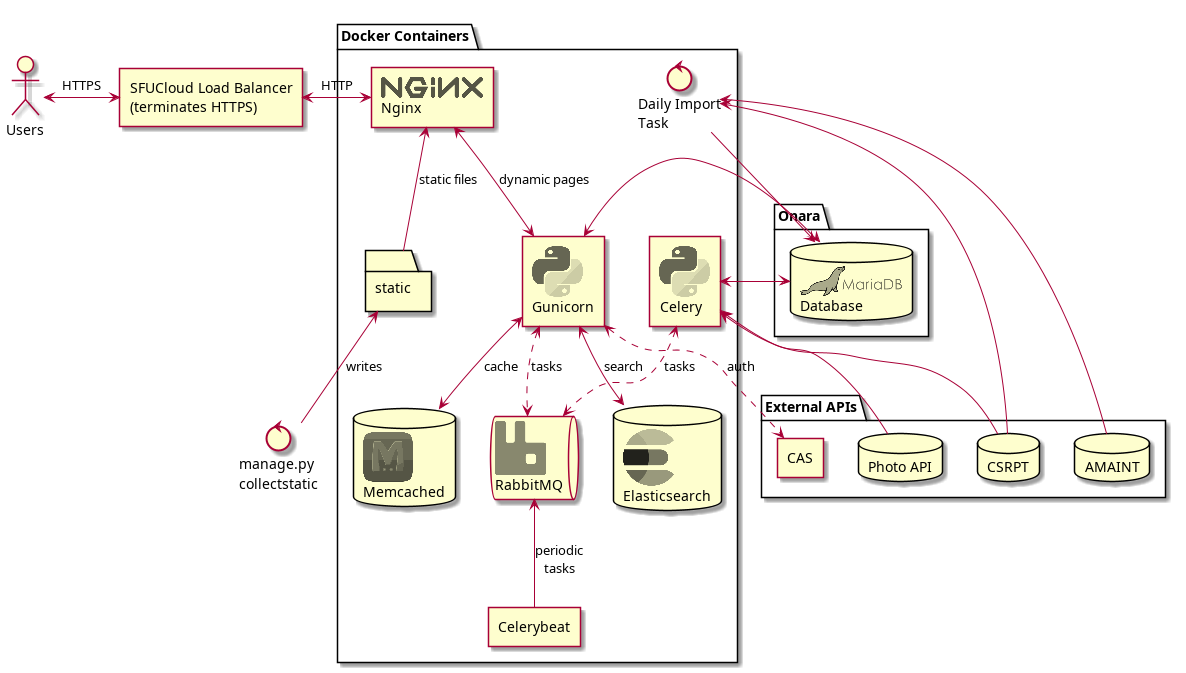
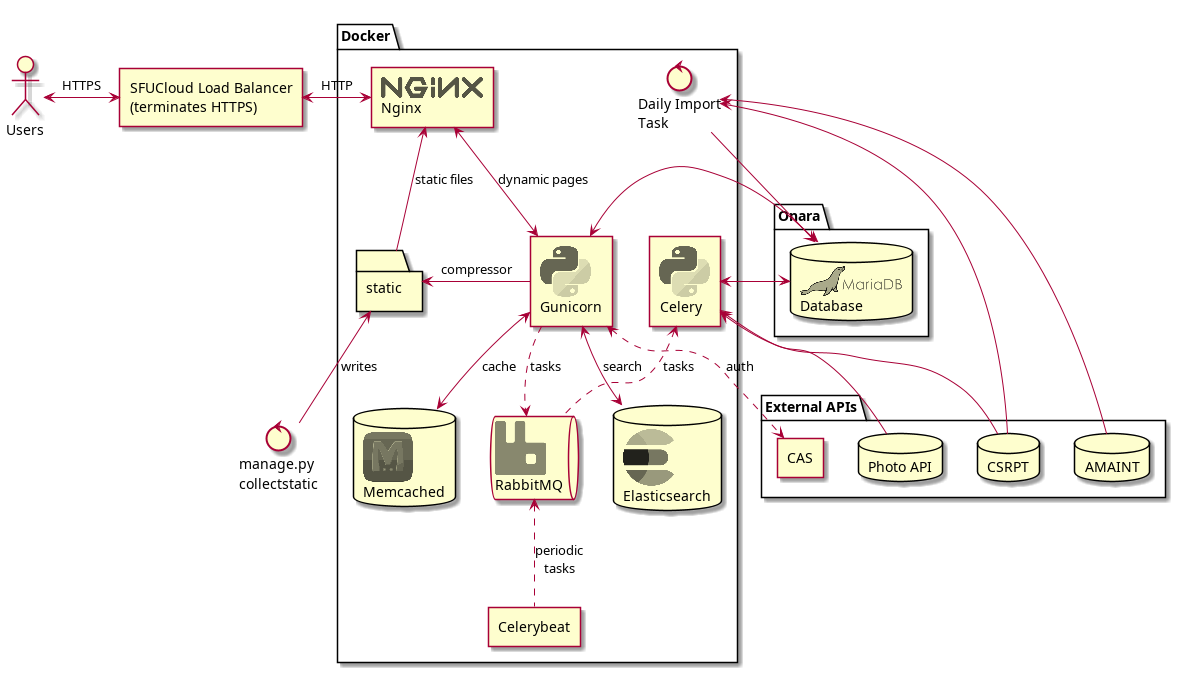
management helper image

diff --git a/DOCKER-TODO.md b/DOCKER-TODO.md
@@ -3,7 +3,8 @@
 * kinit auth piped in somehow
 * log files. Proposal:
     * nginx https://alexanderzeitler.com/articles/rotating-nginx-logs-with-docker-compose/
-    * everything else to syslog
+    * everything else to syslog?
+    * or limit log sizes in daemon.json as described: https://signoz.io/blog/docker-log-rotation/
 * maintenance mode/503 handling
 * logrotate
 * MOSS
@@ -26,10 +27,10 @@ DOCKERROLLOUT="docker rollout -f docker-compose-demo.yml"
 ${DOCKERCOMPOSE} pull
 ${DOCKERCOMPOSE} build
 ${DOCKERCOMPOSE} up -d mysql elasticsearch rabbitmq memcached
-${DOCKERCOMPOSE} run app ./manage.py migrate
-${DOCKERCOMPOSE} run app ./manage.py collectstatic --no-input
-${DOCKERCOMPOSE} run app ./manage.py loaddata fixtures/*
-${DOCKERCOMPOSE} run app ./manage.py update_index
+${DOCKERCOMPOSE} run manage migrate
+${DOCKERCOMPOSE} run manage collectstatic --no-input
+${DOCKERCOMPOSE} run manage loaddata "fixtures/*"
+${DOCKERCOMPOSE} run manage update_index
 ${DOCKERCOMPOSE} up --remove-orphans -d
 ```
 